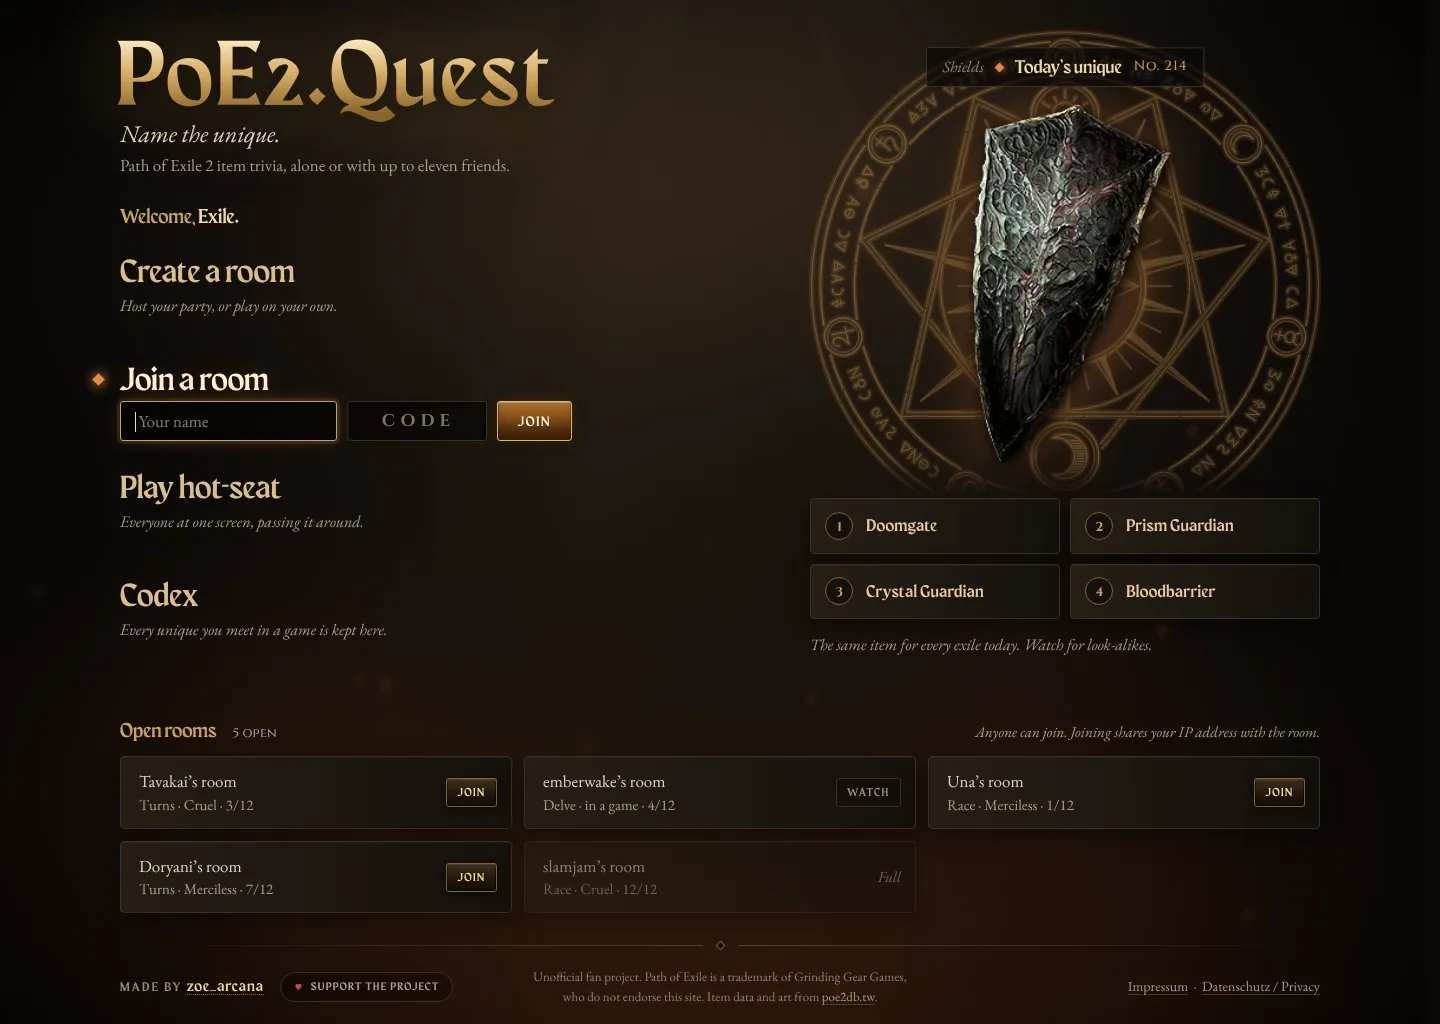
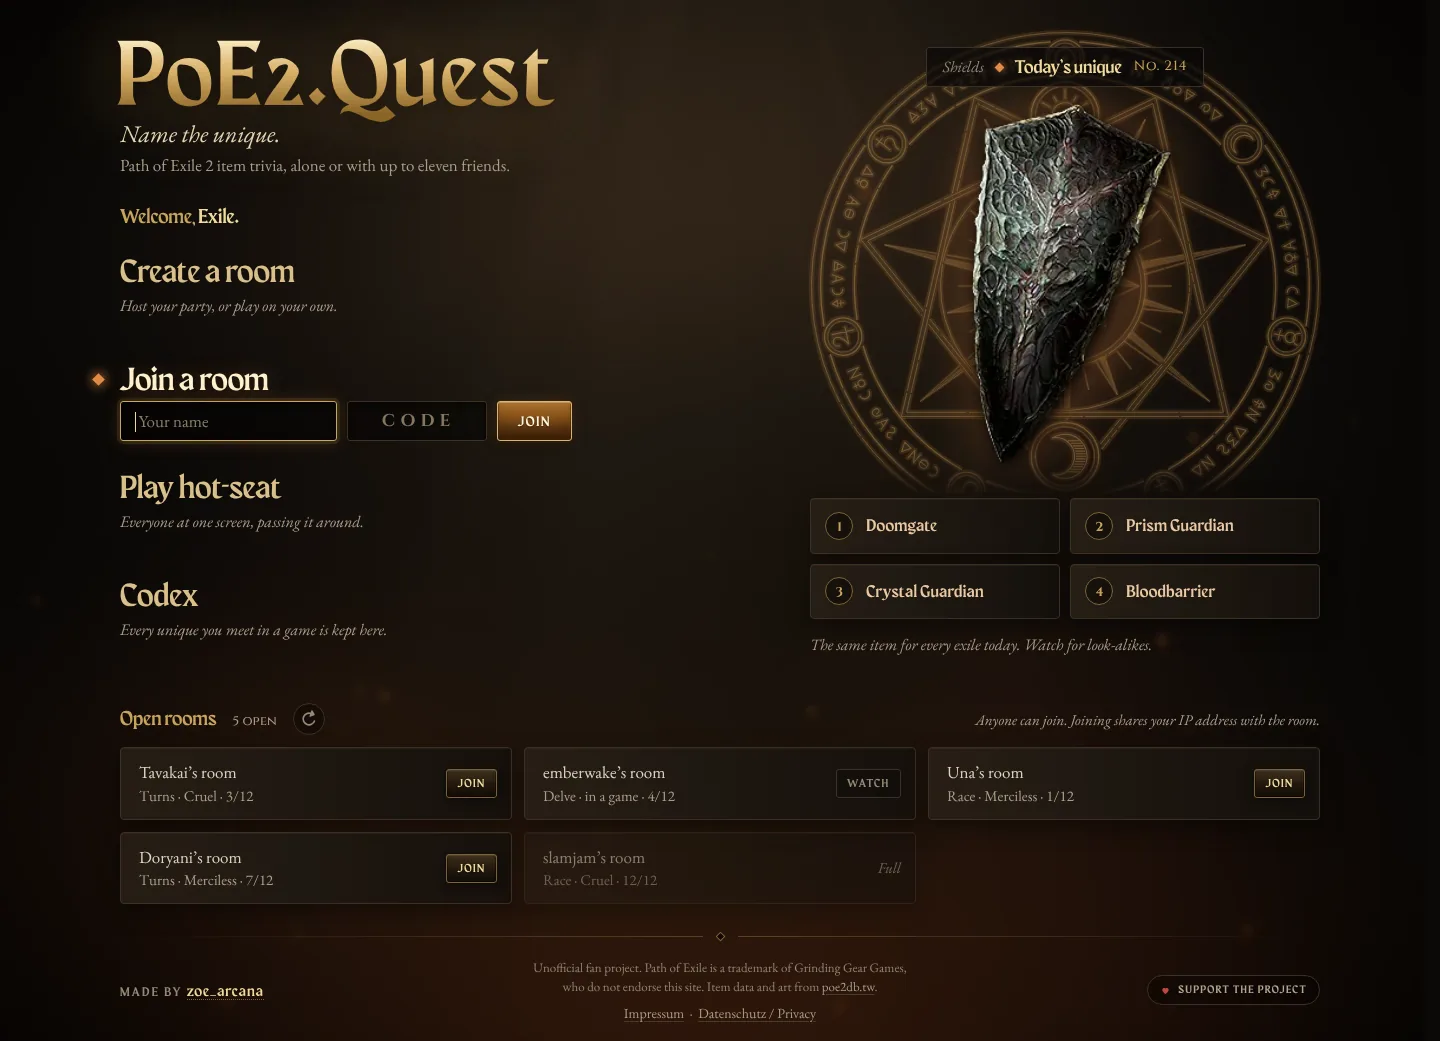
Handoff: balanced footer on the start page
Made by on the left, Support the project on the right, and the legal
lines (trademark note, Impressum, privacy) together in the middle, so
the band no longer leans left. Updated shots.

Claude-Session: https://claude.ai/code/session_0174pAqwWHYR6Vwn9RMJ8ahN

diff --git a/docs/handoff/start-page-and-lobby/README.md b/docs/handoff/start-page-and-lobby/README.md
@@ -257,14 +257,18 @@ Desktop shots are 1440 wide at 1x.
 
 ### Footer band
 
+Balanced on both sides: who made it on the left, how to support it on the
+right, every legal line together in the middle.
+
 - A rule with a centre diamond.
-- Left: "MADE BY zoe_arcana" + pill "♥ SUPPORT THE PROJECT"; its note
-  "Optional tips help pay for the domain and development. Everything stays
-  free." as a tooltip.
-- Middle, fine print: "Unofficial fan project. Path of Exile is a trademark
-  of Grinding Gear Games, who do not endorse this site. Item data and art
-  from poe2db.tw."
-- Right: "Impressum · Datenschutz / Privacy" (existing links).
+- Left: "MADE BY zoe_arcana".
+- Right: pill "♥ SUPPORT THE PROJECT"; its note "Optional tips help pay for
+  the domain and development. Everything stays free." as a tooltip.
+- Middle, centred: fine print "Unofficial fan project. Path of Exile is a
+  trademark of Grinding Gear Games, who do not endorse this site. Item data
+  and art from poe2db.tw.", and under it "Impressum · Datenschutz /
+  Privacy" (existing links).
+- Grid `1fr auto 1fr`, so the middle stays centred under the diamond.
 
 ### Invite link screen (`?room=CODE`)
 
